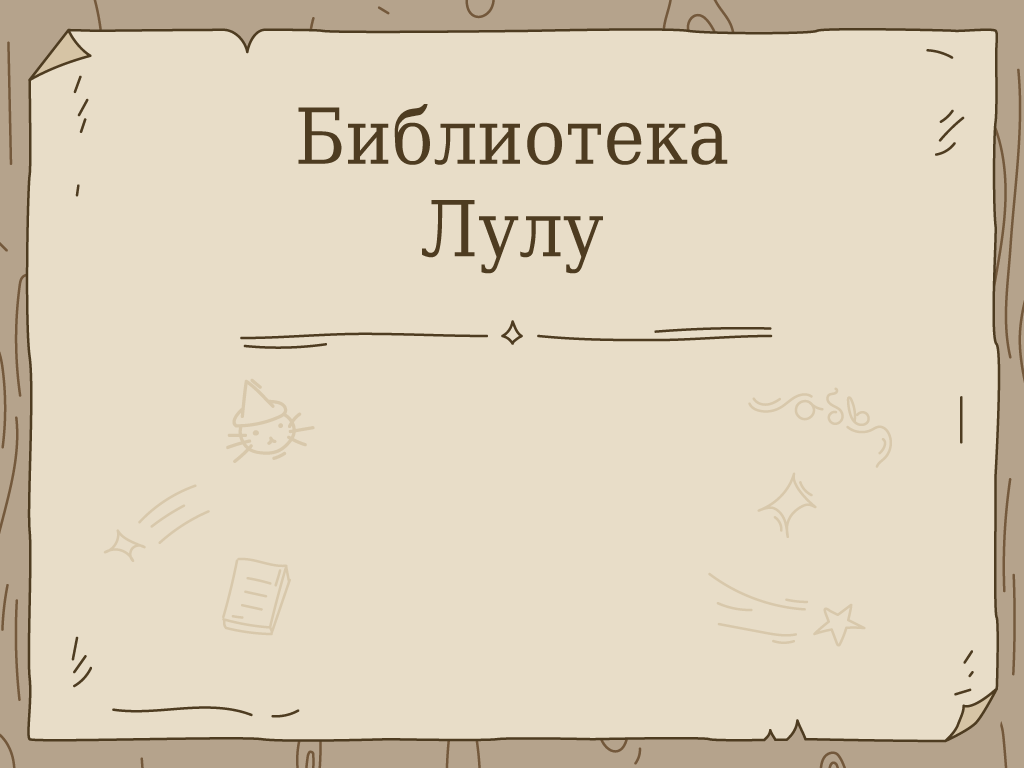
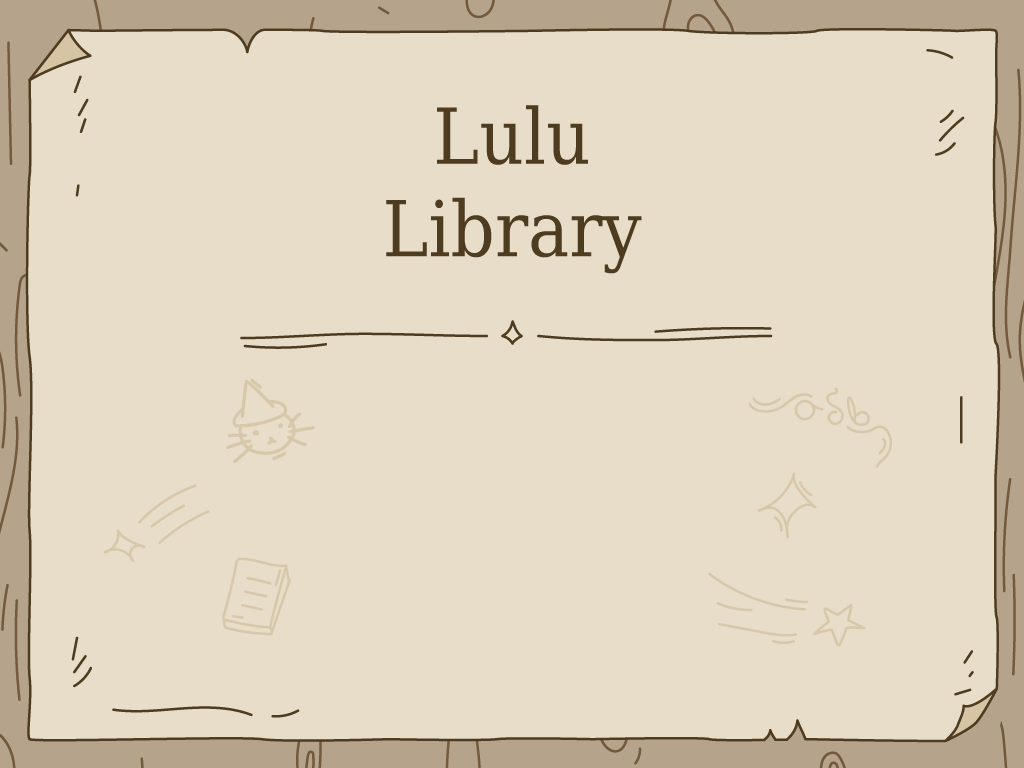
Игра переведена под английский язык

Changed region(s): [[0.2812, 0.125, 0.7188, 0.2188], [0.375, 0.25, 0.625, 0.375]]

diff --git a/hangman/game.h b/hangman/game.h
@@ -88,7 +88,7 @@ void game(RenderWindow& window)
 
 	// Текстура фона игры
 	Texture tx_game_scene;
-	tx_game_scene.loadFromFile("images/fullclear_game-scene.png");
+	tx_game_scene.loadFromFile("images/english_game-scene.png");
 	Sprite Backgr(tx_game_scene);
 	Backgr.setPosition(0, 0);
 
